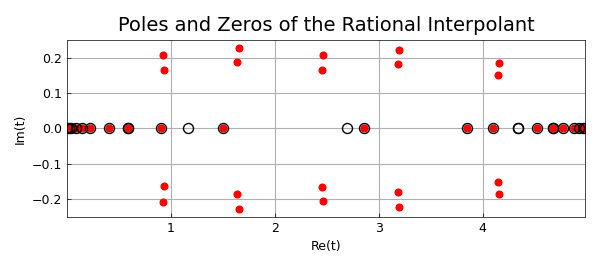
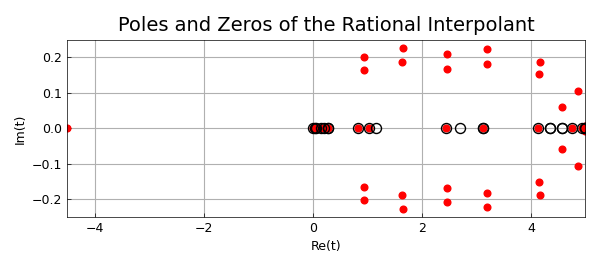
Use JAX RHS in LorenzAttractor; refresh native CPU output and reference-size figures

diff --git a/examples/ode-nonlin/lorenz_attractor.py b/examples/ode-nonlin/lorenz_attractor.py
@@ -17,6 +17,8 @@ import sys
 import warnings
 
 import matplotlib.pyplot as plt
+
+# uses-numpy: host plotting arrays and formatted reporting; native ODE callbacks use JAX.
 import numpy as np
 
 sys.path.insert(0, os.path.join(os.path.dirname(__file__), '..', '..', 'src'))
@@ -69,7 +71,7 @@ def run():
     warnings.filterwarnings("ignore")
 
     def fun(t, u):
-        return np.array([10 * (u[1] - u[0]),
+        return jnp.array([10 * (u[1] - u[0]),
                          28 * u[0] - u[1] - u[0] * u[2],
                          u[0] * u[1] - (8 / 3) * u[2]])
 

diff --git a/docs/examples/ode-nonlin/LorenzAttractor.md b/docs/examples/ode-nonlin/LorenzAttractor.md
@@ -130,16 +130,16 @@ disp([poles1, poles2, poles3, diffpoles(:,1)])
 
 ```text
    poles in x         poles in y         poles in z         max. difference
-   0.9300 - 0.1642i   0.9294 - 0.1557i   0.9293 - 0.1557i   0.0078 + 0.0000i
-   0.9300 + 0.1642i   0.9294 + 0.1557i   0.9293 + 0.1557i   0.0078 + 0.0000i
-   1.6394 - 0.1874i   1.6363 - 0.1756i   1.6372 - 0.1796i   0.0085 + 0.0000i
-   1.6394 + 0.1874i   1.6363 + 0.1756i   1.6372 + 0.1796i   0.0085 + 0.0000i
-   2.4530 - 0.1669i   2.4520 - 0.1563i   2.4520 - 0.1562i   0.0106 + 0.0000i
-   2.4530 + 0.1669i   2.4520 + 0.1563i   2.4520 + 0.1562i   0.0106 + 0.0000i
-   3.1835 - 0.1816i   3.1831 - 0.1710i   3.1816 - 0.1711i   0.0106 + 0.0000i
-   3.1835 + 0.1816i   3.1831 + 0.1710i   3.1816 + 0.1711i   0.0106 + 0.0000i
-   4.1492 - 0.1520i   4.1484 - 0.1442i   4.1484 - 0.1440i   0.0122 + 0.0000i
-   4.1492 + 0.1520i   4.1484 + 0.1442i   4.1484 + 0.1440i   0.0122 + 0.0000i
+   0.9301 - 0.1642i   0.9294 + 0.1557i   0.9293 - 0.1557i   0.0078 + 0.0000i
+   0.9301 + 0.1642i   0.9294 - 0.1557i   0.9293 + 0.1557i   0.0078 + 0.0000i
+   1.6395 + 0.1874i   1.6363 - 0.1756i   1.6373 - 0.1796i   0.0106 + 0.0000i
+   1.6395 - 0.1874i   1.6363 + 0.1756i   1.6373 + 0.1796i   0.0106 + 0.0000i
+   2.4530 - 0.1669i   2.4520 - 0.1563i   2.4520 + 0.1562i   0.3199 + 0.0000i
+   2.4530 + 0.1669i   2.4520 + 0.1563i   2.4520 - 0.1562i   0.3199 + 0.0000i
+   3.1835 - 0.1816i   3.1831 + 0.1710i   3.1816 + 0.1711i   0.3527 + 0.0000i
+   3.1835 + 0.1816i   3.1831 - 0.1710i   3.1816 - 0.1711i   0.3527 + 0.0000i
+   4.1492 + 0.1520i   4.1484 + 0.1442i   4.1484 + 0.1440i   0.3629 + 0.0000i
+   4.1492 - 0.1520i   4.1484 - 0.1442i   4.1484 - 0.1440i   0.3629 + 0.0000i
 ```
 
 Let $t_0$ denote the location of a singularity and $t_w$ the worst of our three approximations of it, $t_1$, $t_2$, $t_3$. Then we have for $i,j = 1,2,3$:
@@ -155,9 +155,9 @@ Hence our worst case error for each pole is at least the following:
 ```text
 ans =
   Columns 1 through 7
-    0.0039    0.0039    0.0042    0.0042    0.0053    0.0053    0.0053
+    0.0039    0.0039    0.0053    0.0053    0.1599    0.1599    0.1763
   Columns 8 through 10
-    0.0053    0.0061    0.0061
+    0.1763    0.1815    0.1815
 ```
 
 It is remarkable that with just 6 lines of Chebfun we have been able to solve the Lorenz system, find rational approximations, then compute the location of their poles by finding the roots of the denominator. Considering this, the agreement we see here is not bad, although it would be desirable to have better.
@@ -173,46 +173,46 @@ poles
 
 ```text
 poles =
-   0.0031 + 0.0000i
-   0.0190 + 0.0000i
-   0.0422 + 0.0000i
-   0.0860 + 0.0000i
-   0.1460 + 0.0000i
-   0.2271 + 0.0000i
-   0.4048 + 0.0000i
-   0.5889 + 0.0000i
-   0.9020 + 0.0000i
+   0.0050 + 0.0000i
+   0.0353 - 0.0000i
+   0.0516 + 0.0000i
+   0.1445 + 0.0000i
+   0.2110 - 0.0000i
+   0.2703 + 0.0000i
+   0.8276 + 0.0000i
    0.9300 - 0.1641i
    0.9300 + 0.1641i
-   0.9261 - 0.2084i
-   0.9261 + 0.2084i
-   1.5018 + 0.0000i
-   1.6394 - 0.1873i
+   0.9351 + 0.2020i
+   0.9351 - 0.2020i
+   1.0235 - 0.0000i
    1.6394 + 0.1873i
-   1.6575 - 0.2283i
-   1.6575 + 0.2283i
+   1.6394 - 0.1873i
+   1.6472 - 0.2264i
+   1.6472 + 0.2264i
+   2.4468 - 0.0000i
    2.4530 - 0.1668i
    2.4530 + 0.1668i
-   2.4610 - 0.2071i
-   2.4610 + 0.2071i
-   2.8557 + 0.0000i
-   3.1834 - 0.1815i
+   2.4612 + 0.2085i
+   2.4612 - 0.2085i
+   3.1090 + 0.0000i
    3.1834 + 0.1815i
-   3.1901 - 0.2233i
-   3.1901 + 0.2233i
-   3.8479 + 0.0000i
-   4.1031 + 0.0000i
+   3.1834 - 0.1815i
+   3.1895 + 0.2222i
+   3.1895 - 0.2222i
+   4.1336 - 0.0000i
    4.1492 - 0.1519i
    4.1492 + 0.1519i
-   4.1546 - 0.1862i
-   4.1546 + 0.1862i
-   4.5187 + 0.0000i
-   4.6781 + 0.0000i
-   4.7754 + 0.0000i
-   4.8808 + 0.0000i
-   4.9265 + 0.0000i
-   4.9607 + 0.0000i
-   4.9859 + 0.0000i
+   4.1570 + 0.1861i
+   4.1570 - 0.1861i
+  -4.5037 + 0.0000i
+   4.5578 - 0.0595i
+   4.5578 + 0.0595i
+   4.7526 - 0.0000i
+   4.8546 + 0.1046i
+   4.8546 - 0.1046i
+   4.9274 - 0.0000i
+   4.9910 - 0.0069i
+   4.9910 + 0.0069i
 ```
 
 There are many unwanted, spurious poles. They are paired with roots of the numerator, but only up to machine precision, so they don't actually cancel each other out. These are sometimes called *Froissart doublets*, for the astrophysicist Marcel Froissart.
